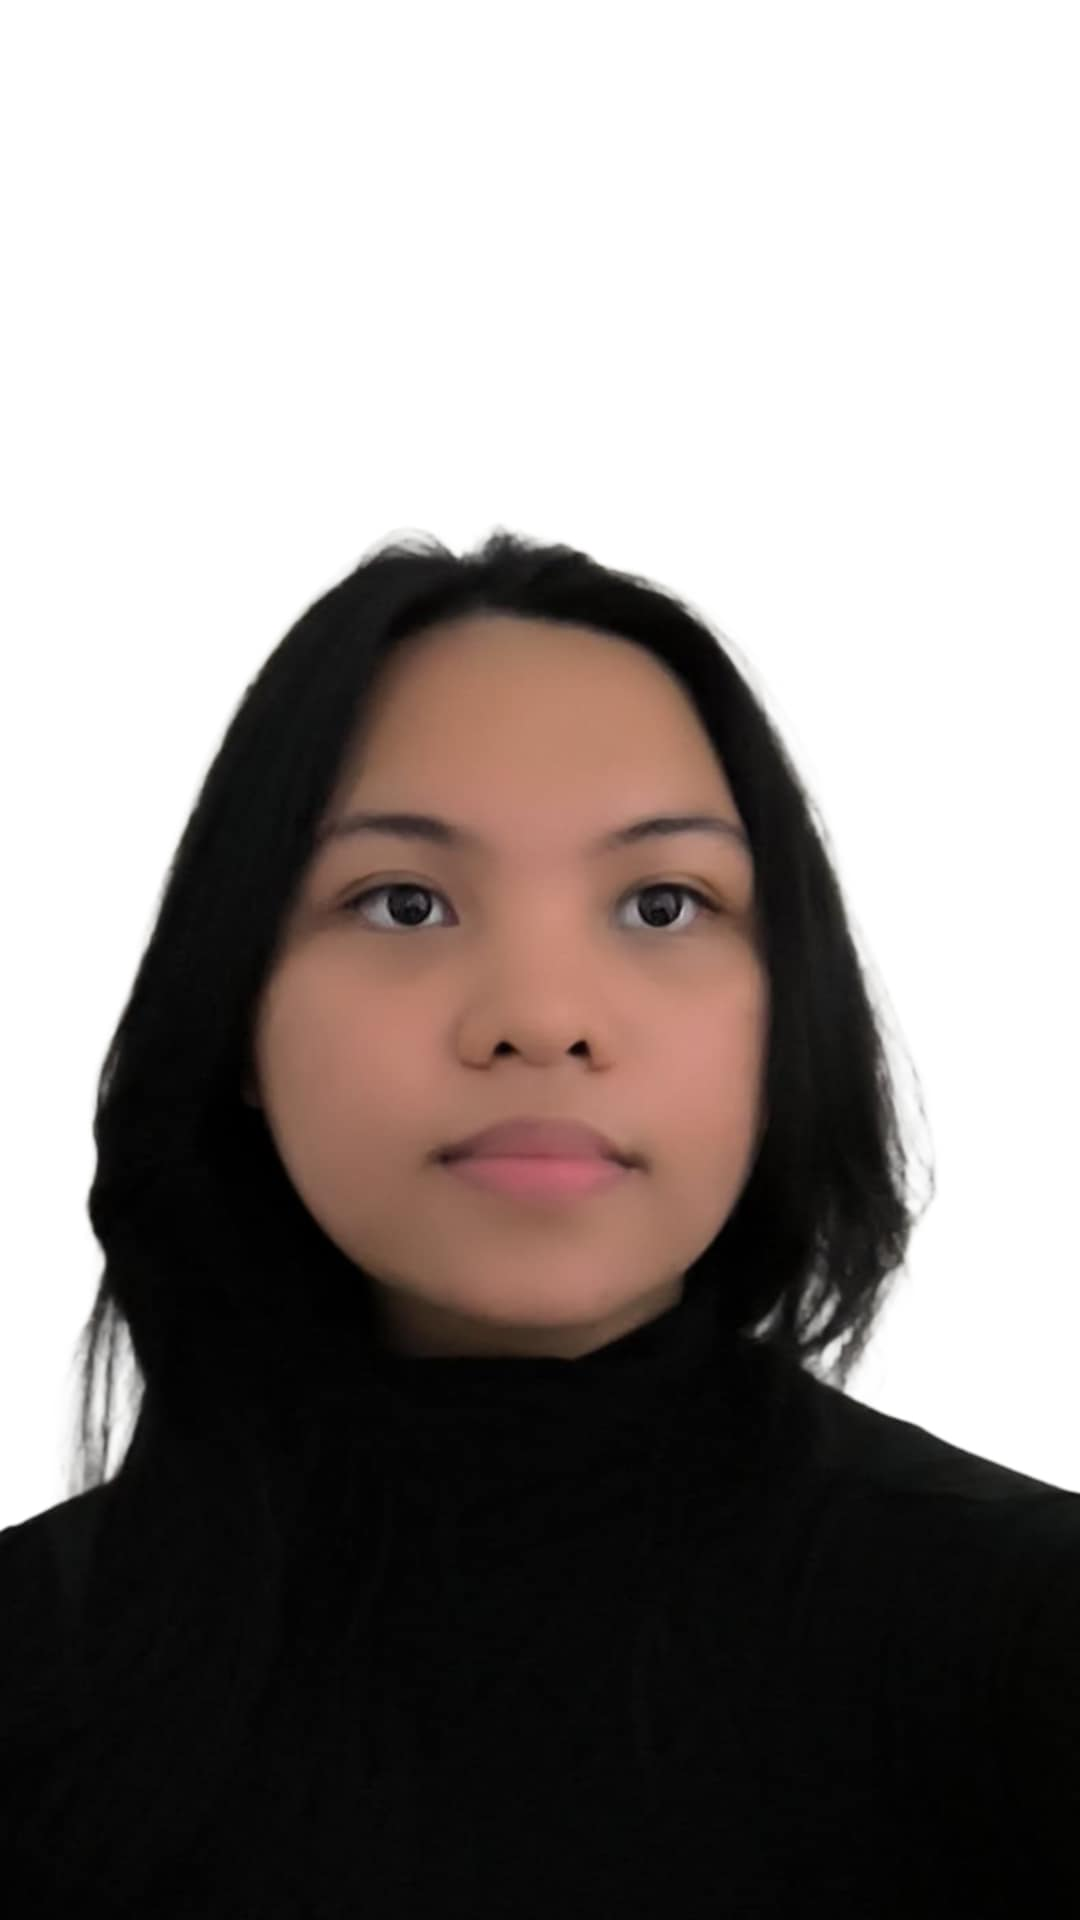
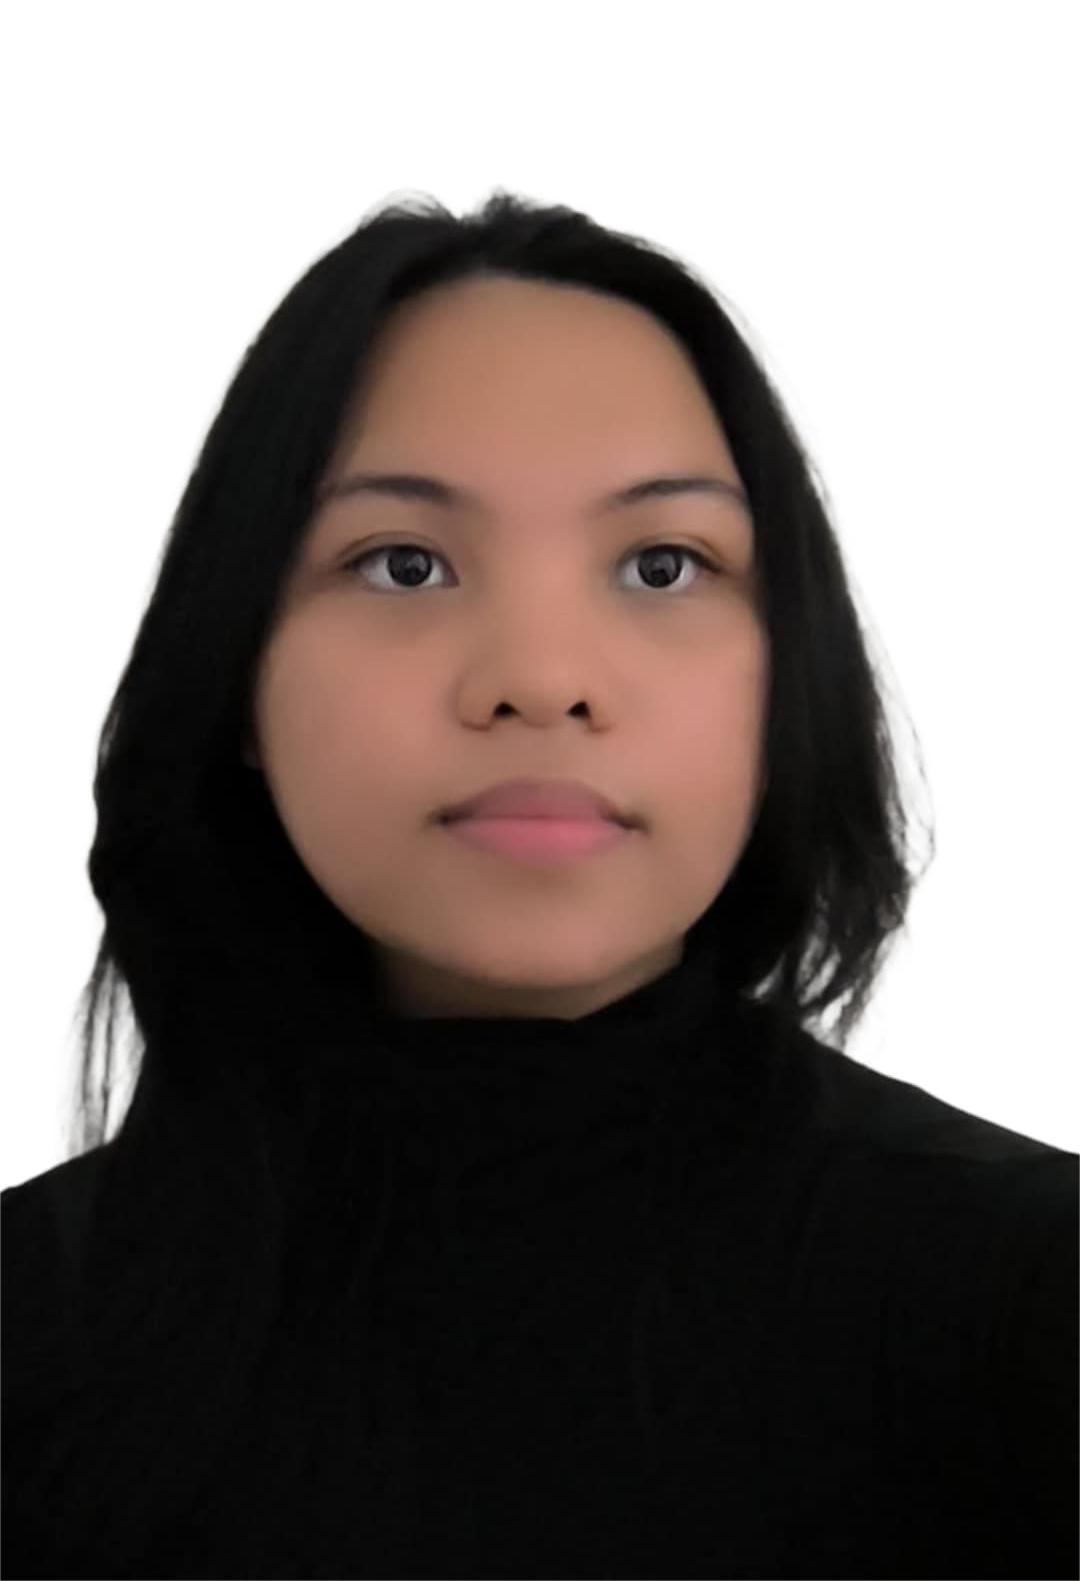
public, about

Changed region(s): [[0.0, 0.124, 1.0, 0.8058], [0.9778, 0.9918, 1.0, 1.0], [0.0, 0.9918, 0.0306, 1.0]]

diff --git a/portfolio/components/about.tsx b/portfolio/components/about.tsx
@@ -55,9 +55,9 @@ export default function About() {
           {/* Profile photo */}
           <div className="flex justify-center">
             <Image
-              src="/me.jpg"
+              src="/profile.jpg"
               alt="Profile photo"
-              width={400}
+              width={350}
               height={500}
               className="rounded-xl shadow-lg object-cover"
             />
